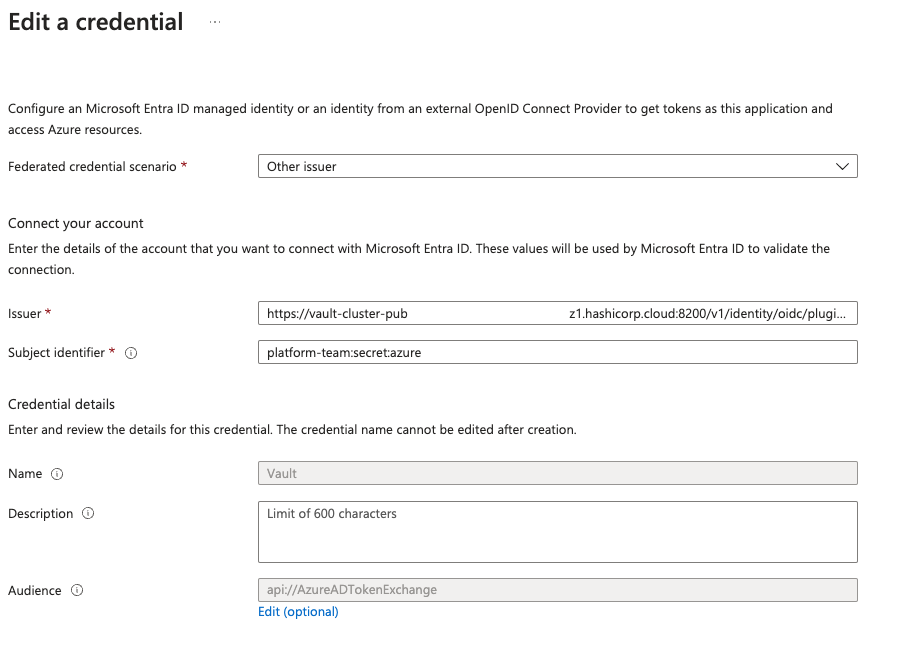
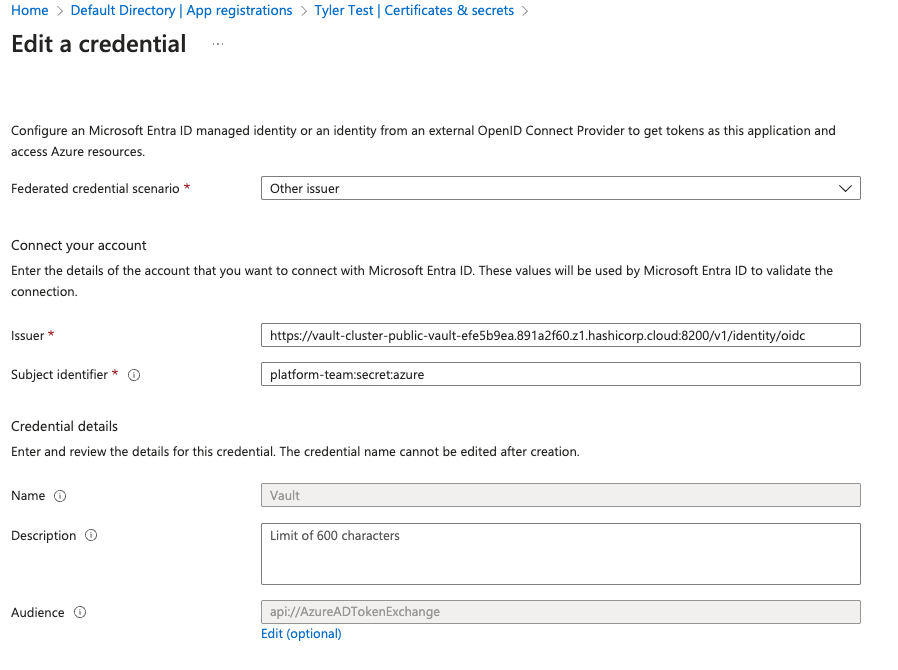
Adding in a bunch o stuff

diff --git a/README.md b/README.md
@@ -196,9 +196,12 @@ In this section, we will integrate Workload Identity Federation (WIF) to enable 
 
 ### Cons
 - Requires Vault 1.17 or later.
+- Added complexity
+    - identity/oidc needs to be configured and enabled
+    - Need to ensure that Vault openid-configuration and public JWKS APIs are network-reachable by Azure
 
 ### Notes
-- 
+- HCP Vault is 1.15 🤦♂
 
 ## To Deploy
 For this we need Vault deployed using https and it needs to be network-reachable by Azure. For this I'm going to use a new instance and take advatage of [HCP Vault](https://developer.hashicorp.com/hcp/docs/vault/what-is-hcp-vault). 
@@ -241,10 +244,10 @@ Now we need to configure Azure, a more detailed guide can be found for Vault [he
 6. Next we need to configure the `identity_token_audience` variable we will use in the next step, to do that replace `{VAULT_HOST}` in the following command. **This does not need http:// so will be something like `vault.example/v1/identity/oidc/plugins`**
 
 ```bash
-export TF_VAR_identity_token_audience="{VAULT_HOST}/v1/identity/oidc/plugins"
+export TF_VAR_identity_token_audience="{VAULT_HOST}/v1/identity/oidc"
 ```
 
-for example `export TF_VAR_identity_token_audience="vault-cluster-public-vault-.z1.hashicorp.cloud:8200/v1/identity/oidc/plugins"`
+for example `export TF_VAR_identity_token_audience="vault-cluster-public-vault-.z1.hashicorp.cloud:8200/v1/identity/oidc"`
 
 7. Now we will setup the azure secrets engine in the platform team account, you probably have `TF_VAR_client_id`, `TF_VAR_tenant_id` & `TF_VAR_subscription_id` already set but if not go back to [here](#step-1-deploy-azure-secret-engine-for-platform-team)
 
